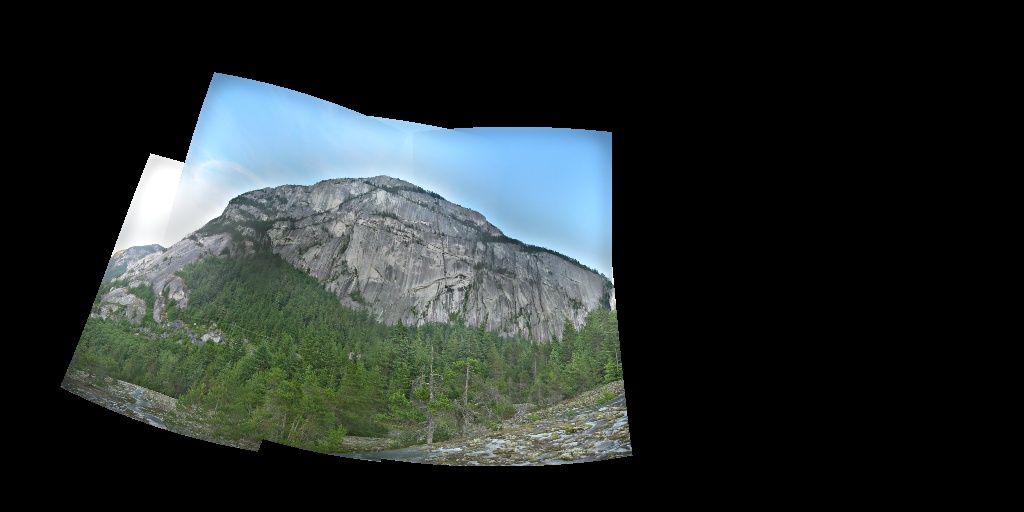
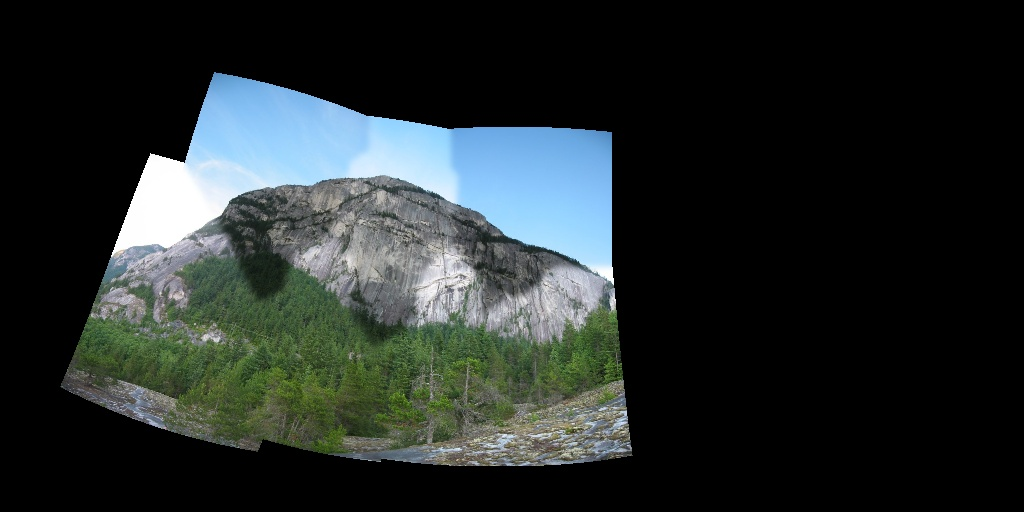
improved and fixed multiband blending

diff --git a/Panorama/src/main.cpp b/Panorama/src/main.cpp
@@ -16,8 +16,6 @@
 #include "ImageMatching.h"
 #include "Calibration.h"
 
-#define DATASET 1
-
 using namespace std;
 using namespace cv;
 
@@ -27,52 +25,71 @@ int main(int argc, char *argv[])
 	initModule_nonfree();
 
 	vector<string> sourceImagesNames;
+	string setName = "";
+	int setId;
 
-#if DATASET == 1
-	sourceImagesNames.push_back("balcony0");
-	sourceImagesNames.push_back("balcony1");
-	sourceImagesNames.push_back("balcony2");
-#elif DATASET == 2
-	sourceImagesNames.push_back("office1");
-	sourceImagesNames.push_back("office2");
-	sourceImagesNames.push_back("office4");
-	sourceImagesNames.push_back("office3");
-#elif DATASET == 3
-	sourceImagesNames.push_back("building1");
-	sourceImagesNames.push_back("building2");
-	sourceImagesNames.push_back("building3");
-	sourceImagesNames.push_back("building4");
-	sourceImagesNames.push_back("building5");
-	sourceImagesNames.push_back("building6");
-#elif DATASET == 4
-	sourceImagesNames.push_back("mountain1");
-	sourceImagesNames.push_back("mountain2");
-#elif DATASET == 5
-	sourceImagesNames.push_back("bus1");
-	sourceImagesNames.push_back("bus2");
-#elif DATASET == 6
-	sourceImagesNames.push_back("cliff1");
-	sourceImagesNames.push_back("cliff2");
-	sourceImagesNames.push_back("cliff3");
-	sourceImagesNames.push_back("cliff4");
-	sourceImagesNames.push_back("cliff5");
-	sourceImagesNames.push_back("cliff6");
-	sourceImagesNames.push_back("cliff7");
-#elif DATASET == 7
-	/*for (int i = 1; i <= 14; ++i) {
-		stringstream str;
+	cin >> setId;
 
-		str << "mc" << i;
-		sourceImagesNames.push_back(str.str());
-	}*/
+	switch (setId) {
+		case 1:
+			sourceImagesNames.push_back("balcony0");
+			sourceImagesNames.push_back("balcony1");
+			sourceImagesNames.push_back("balcony2");
+			setName = "balcony";
+			break;
+		case 2:
+			sourceImagesNames.push_back("office1");
+			sourceImagesNames.push_back("office2");
+			sourceImagesNames.push_back("office4");
+			sourceImagesNames.push_back("office3");
+			setName = "office";
+			break;
+		case 3:
+			sourceImagesNames.push_back("building1");
+			sourceImagesNames.push_back("building2");
+			sourceImagesNames.push_back("building3");
+			sourceImagesNames.push_back("building4");
+			sourceImagesNames.push_back("building5");
+			sourceImagesNames.push_back("building6");
+			setName = "building";
+			break;
+		case 4:
+			sourceImagesNames.push_back("mountain1");
+			sourceImagesNames.push_back("mountain2");
+			setName = "mountains";
+			break;
+		case 5:
+			sourceImagesNames.push_back("bus1");
+			sourceImagesNames.push_back("bus2");
+			setName = "bus";
+			break;
+		case 6:
+			sourceImagesNames.push_back("cliff1");
+			sourceImagesNames.push_back("cliff2");
+			sourceImagesNames.push_back("cliff3");
+			sourceImagesNames.push_back("cliff4");
+			sourceImagesNames.push_back("cliff5");
+			sourceImagesNames.push_back("cliff6");
+			sourceImagesNames.push_back("cliff7");
+			setName = "cliff";
+			break;
+		case 7:
+			/*for (int i = 1; i <= 14; ++i) {
+				stringstream str;
 
-	sourceImagesNames.push_back("mc1");
-	sourceImagesNames.push_back("mc8");
-	sourceImagesNames.push_back("mc9");
-	sourceImagesNames.push_back("mc10");
-#else
-	return 1;
-#endif
+				str << "mc" << i;
+				sourceImagesNames.push_back(str.str());
+			}*/
+
+			sourceImagesNames.push_back("mc1");
+			sourceImagesNames.push_back("mc8");
+			sourceImagesNames.push_back("mc9");
+			sourceImagesNames.push_back("mc10");
+			setName = "mc";
+			break;
+		default:
+			return 1;
+	}
 
 	int nbImages = sourceImagesNames.size();
 	Scene scene(nbImages);
@@ -119,7 +136,12 @@ int main(int argc, char *argv[])
 	cout << "Writing final image" << endl;
 	namedWindow("output spherical", WINDOW_AUTOSIZE);
 	imshow("output spherical", finalImage);
-	imwrite("output.jpg", finalImage);
+
+	stringstream sstr;
+
+	sstr << "multiband-" << setName << ".jpg";
+
+	imwrite(sstr.str(), finalImage);
 
 	//Mat panorama = scene.composePanoramaPlanar();
 

diff --git a/Panorama/src/Scene.cpp b/Panorama/src/Scene.cpp
@@ -306,7 +306,7 @@ Mat Scene::composePanoramaSpherical(int projSizeX, int projSizeY, double focalLe
 		}
 	}
 
-	const int nbBands = 4;
+	const int nbBands = 5;
 	vector<vector<Mat>> mbWeights(_nbImages);
 	vector<vector<Mat>> mbBands(_nbImages);
 	vector<vector<Mat>> mbImages(_nbImages);
@@ -315,7 +315,7 @@ Mat Scene::composePanoramaSpherical(int projSizeX, int projSizeY, double focalLe
 
 	{
 		for (int i = 0; i < _nbImages; ++i) {
-			float blurDeviation = 2.5;
+			float blurDeviation = 10;
 			Mat mask1, mask3;
 
 			cout << ".";
@@ -332,19 +332,12 @@ Mat Scene::composePanoramaSpherical(int projSizeX, int projSizeY, double focalLe
 			mbWeights[i][0] = warpedWeights[i];
 
 			for (int k = 1; k <= nbBands; ++k) {
-				Mat maskBlurred1, maskBlurred3;
-
 				GaussianBlur(mbImages[i][k - 1], mbImages[i][k], Size(0, 0), blurDeviation);
 				GaussianBlur(mbWeights[i][k - 1], mbWeights[i][k], Size(0, 0), blurDeviation);
-				GaussianBlur(mask1, maskBlurred1, Size(0, 0), blurDeviation);
-				GaussianBlur(mask3, maskBlurred3, Size(0, 0), blurDeviation);
-
-				multiply(mbImages[i][k], 2 - (maskBlurred3 / WEIGHT_MAX), mbImages[i][k]);
-				multiply(mbWeights[i][k], 2 - (maskBlurred1 / WEIGHT_MAX), mbWeights[i][k]);
 
 				mbBands[i][k] = mbImages[i][k - 1] - mbImages[i][k];
 
-				blurDeviation *= sqrtf(2 * static_cast<float>(k) + 1);
+				blurDeviation /= sqrtf(2 * static_cast<float>(k) + 1);
 			}
 
 			mbBands[i][nbBands] = mbImages[i][nbBands];
@@ -408,8 +401,6 @@ Mat Scene::composePanoramaSpherical(int projSizeX, int projSizeY, double focalLe
 		mask.convertTo(mask, CV_8U);
 		blender->feed(image, mask * 255, corners[i].first);
 	}
-
-	Mat finalImage;
 
 	blender->blend(finalImage, Mat());
 	finalImage.convertTo(finalImage, CV_8UC3);*/
